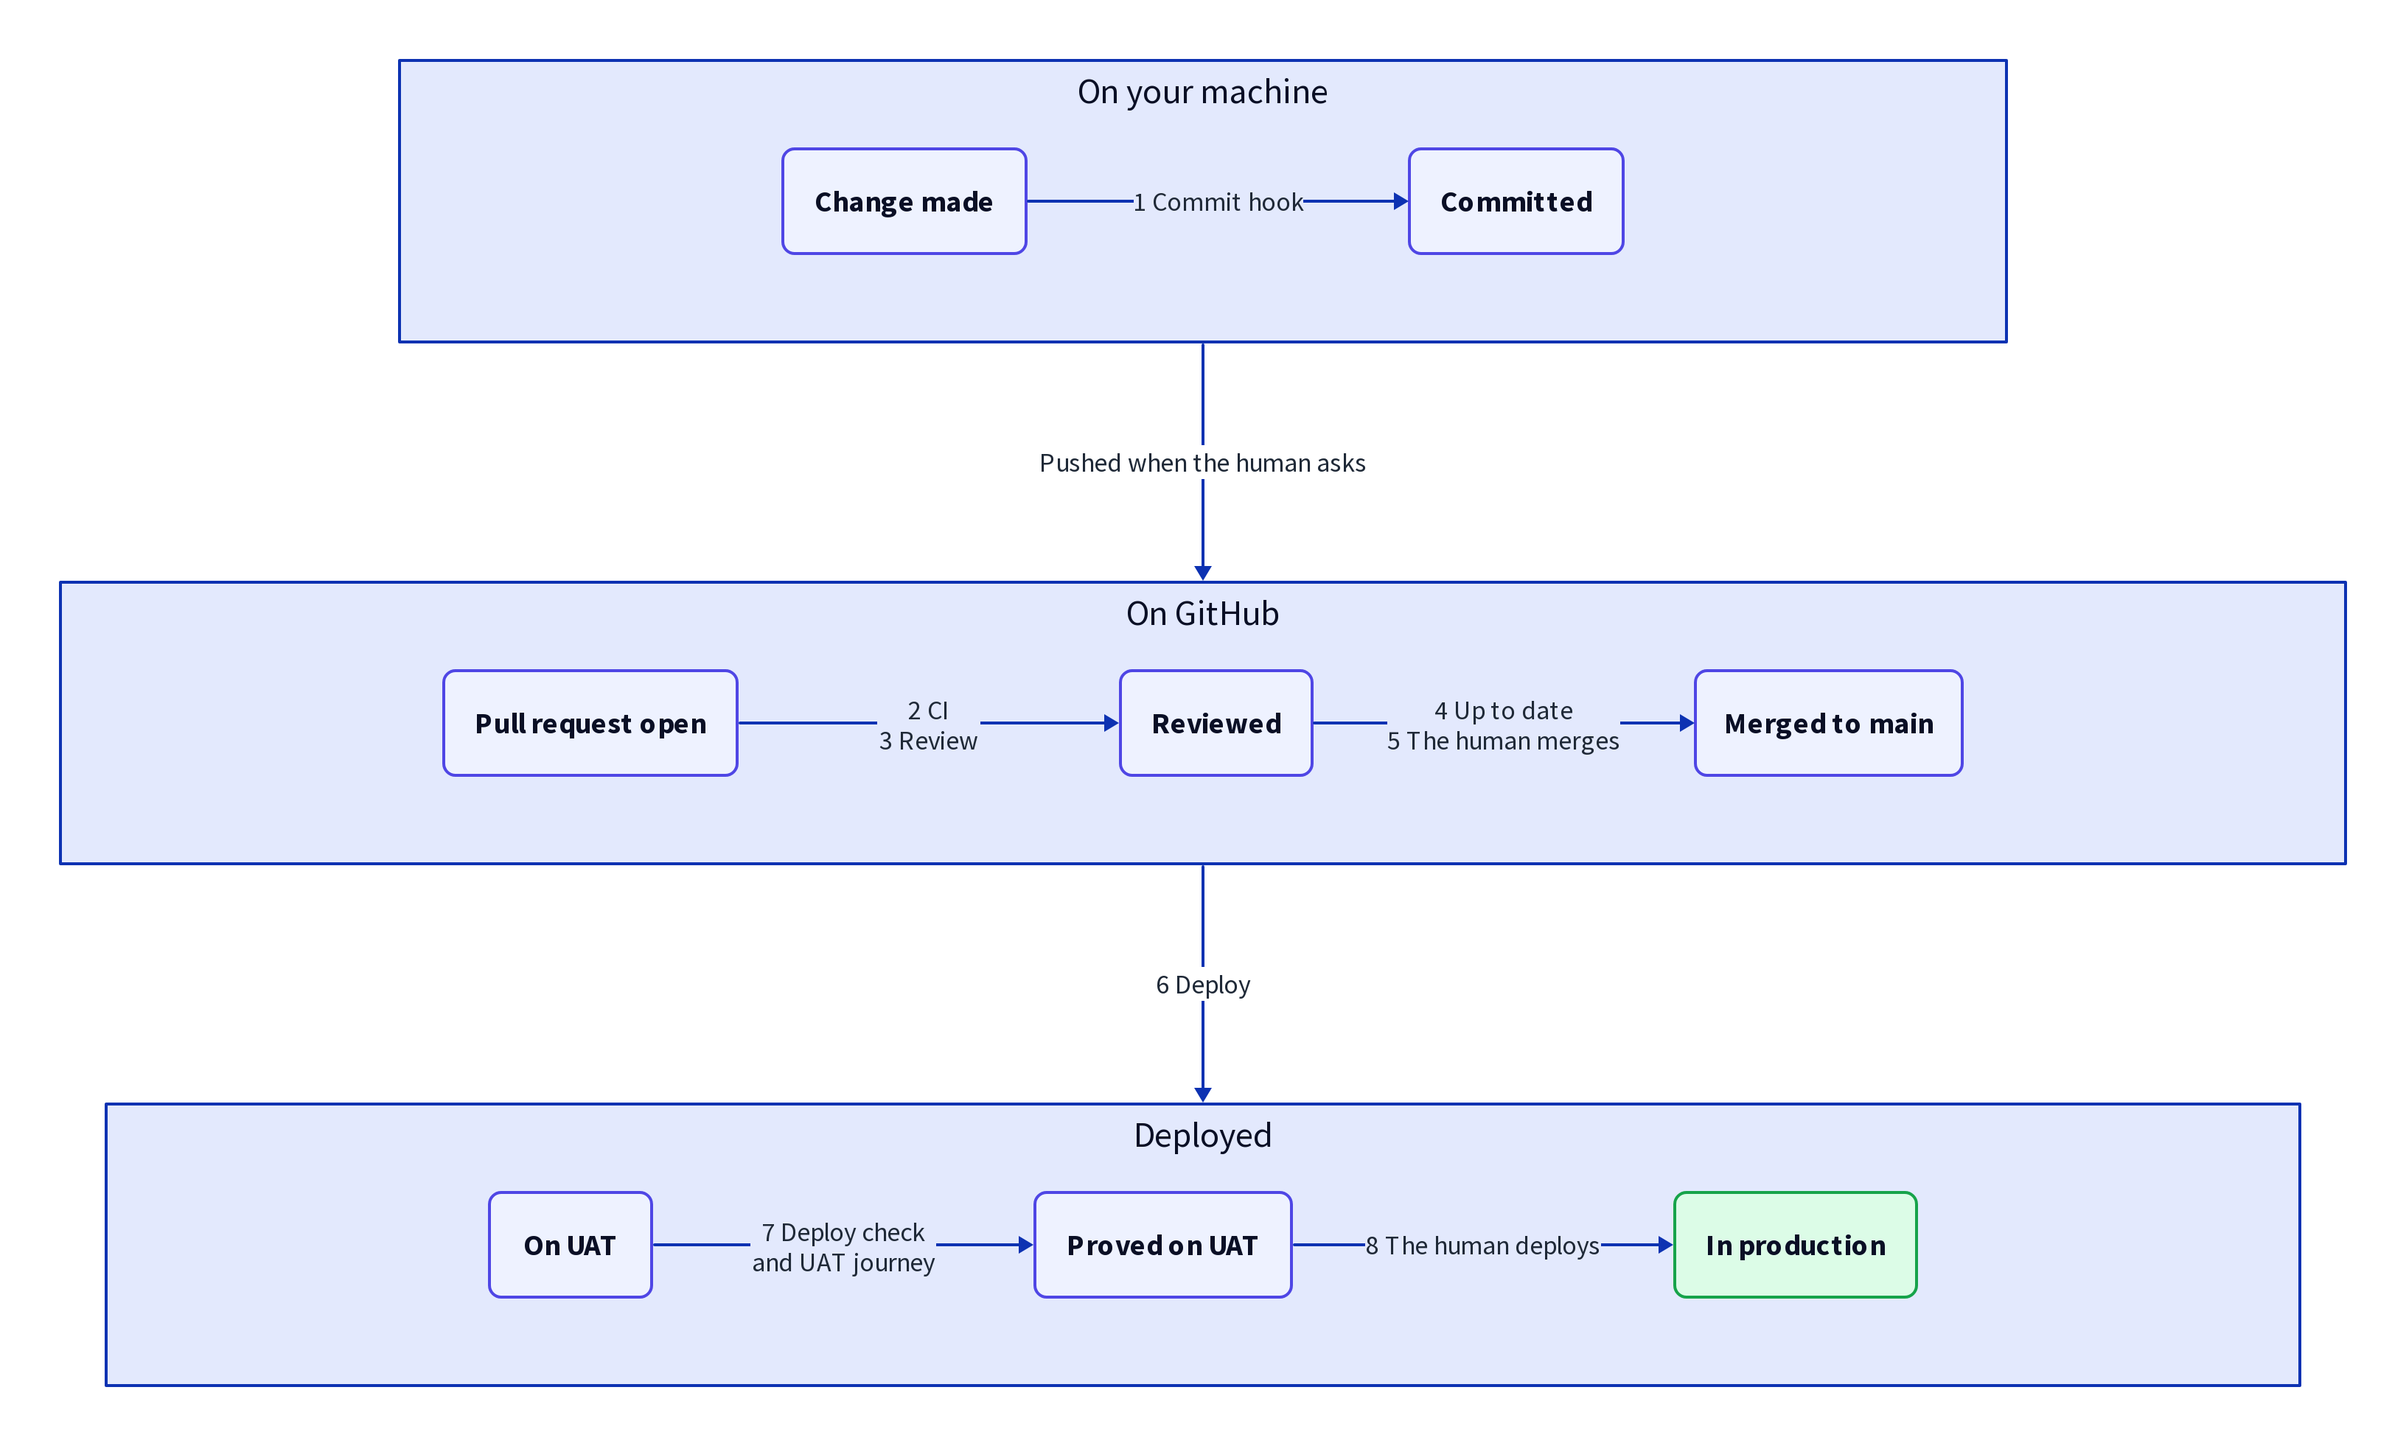
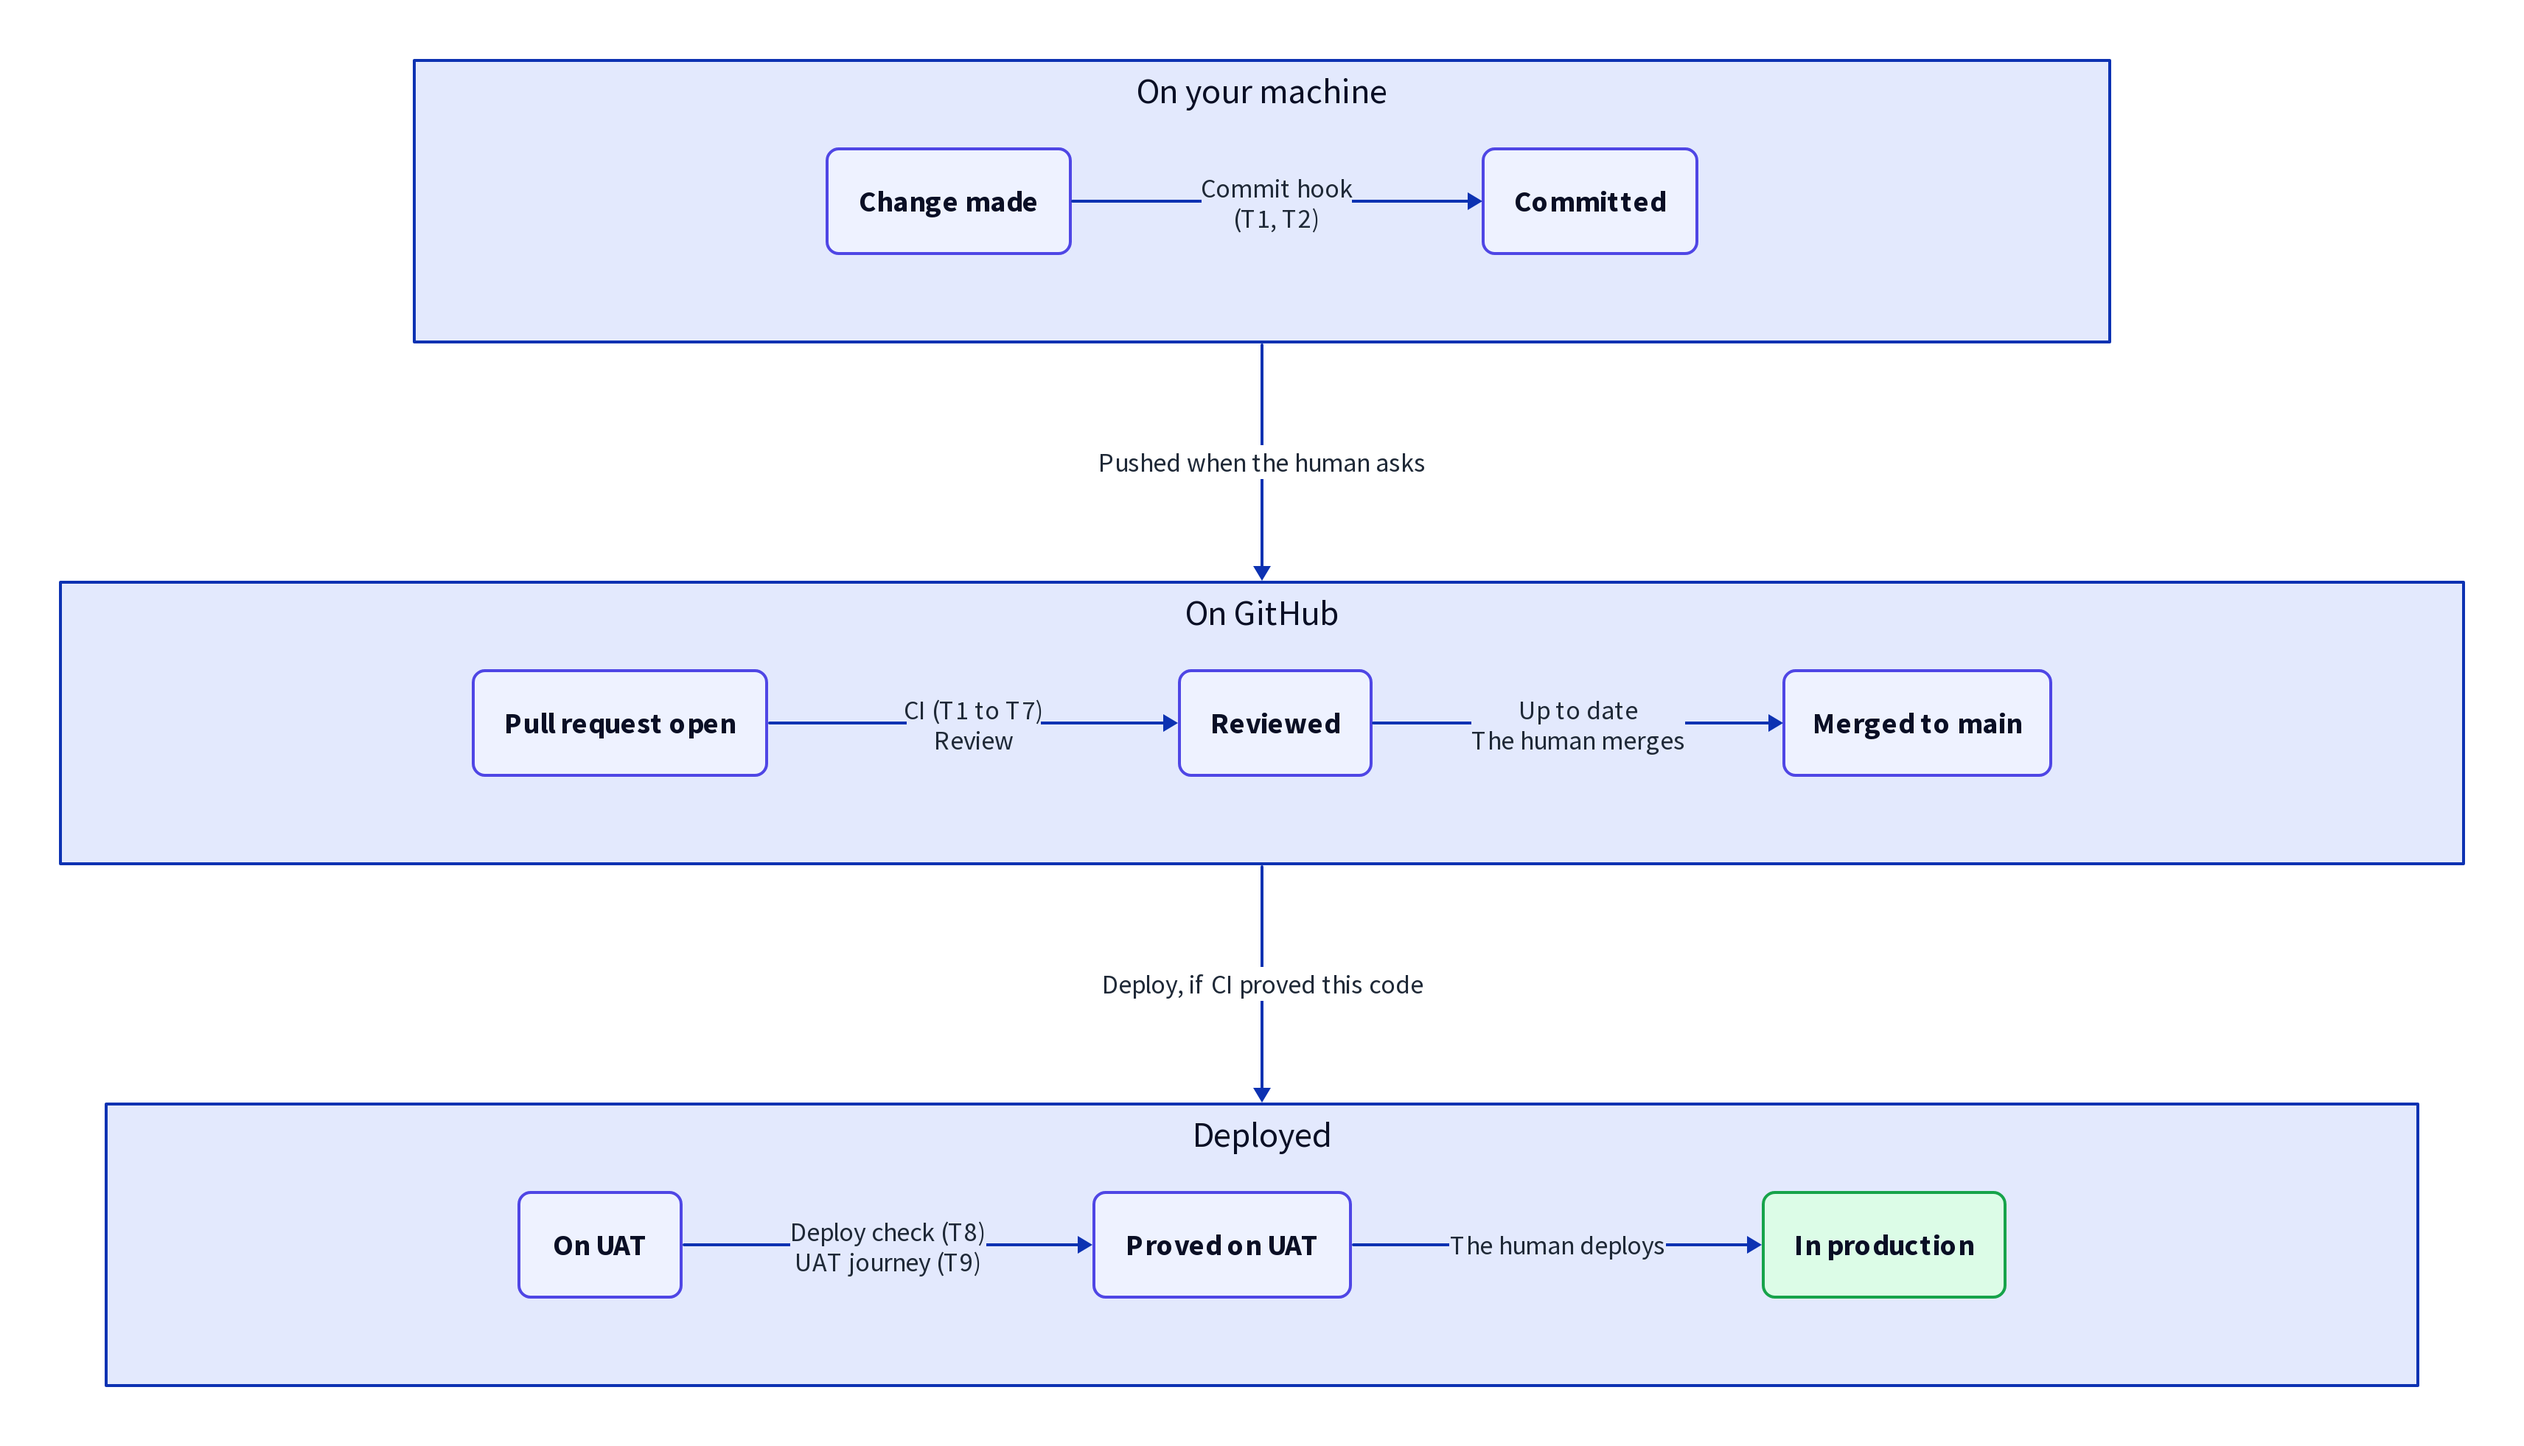
set-up-sdlc: drop the gates list from the example (it repeated the git section); diagram labels name the tests

diff --git a/set-up-sdlc/AGENTS-example.md b/set-up-sdlc/AGENTS-example.md
@@ -121,7 +121,7 @@ A worktree is a second working folder on its own branch, sharing the repo's hist
 | Rule | |
 | --- | --- |
 | Branches | Cut from `origin/main`. Named `<user>/<ticket-id>-<slug>`, main ticket first. |
-| Up to date | Bring the branch up to date with `main` before a merge. GitHub allows a merge without it, and the deploy then refuses the result. |
+| Up to date | Bring the branch up to date with `main` before a merge, so `main` only ever holds changes that were tested together. GitHub allows a merge without it, and the deploy then refuses the result. Each merge puts every other open pull request out of date, so finish one before bringing the next up to date. |
 | Pushing | Only when the human asks. |
 | Merging | The human merges. Open the pull request and stop. |
 | Local tests | None are needed before a push. CI runs the full suite. |
@@ -150,22 +150,7 @@ Never change infrastructure by hand in any environment.
 
 ![The route a change takes, from a change on your machine to production](example_pipeline.png)
 
-Each number is a gate, explained in the next table. The picture is drawn from `example_pipeline.d2`.
-
-### The gates
-
-| # | Gate | What must be true | What checks it | If it stops you |
-| --- | --- | --- | --- | --- |
-| 1 | Commit hook | Format, lint and type checks pass on what you changed (T1, T2). | The commit hook | Fix the cause. Never skip the hook. |
-| 2 | CI | Every suite from T1 to T7 passes. | CI, each time the pull request is pushed | Fix it and push again. |
-| 3 | Review | Every finding is fixed, dropped or settled by the human. | You | Send a fresh builder to fix it. The same reviewer checks the fix. |
-| 4 | Up to date | The branch holds the latest `main`, and CI has passed on that. | Nothing at merge. Gate 6 catches it later. | Update the branch and wait for CI. |
-| 5 | Merge | The human says so. | The human | Stop and wait. |
-| 6 | Deploy | CI proved this exact code. | The deploy workflow | Find out why the proof is missing. Never work round it. |
-| 7 | Proved on UAT | The deploy check passes (T8), and the change is shown working in the deployed app (T9). | The deploy workflow, then you | The ticket stays In Review. |
-| 8 | Production | The change is proved on UAT. | The human | Stop and wait. |
-
-**Why gate 4 is worth the wait.** `main` should only ever hold a combination of changes that has been tested together. Each merge puts every other open pull request out of date, so they go in one at a time. Finish one before bringing the next up to date. Do not line several up and push them through together.
+The rules along this route are in Git, above. The tests it names (T1 to T9) are in the next table. The picture is drawn from `example_pipeline.d2`.
 
 ### The tests
 
@@ -195,7 +180,7 @@ Each number is a gate, explained in the next table. The picture is drawn from `e
 | T8 Deploy check | | | ● | |
 | T9 UAT journey | | | | ● feature work |
 
-Nothing runs on a merge or on a schedule. A deploy to production re-runs no tests: it checks the proof from gate 6.
+Nothing runs on a merge or on a schedule. A deploy to production re-runs no tests: it checks that CI proved the code.
 
 ### Test data and logins
 

diff --git a/set-up-sdlc/recipe.md b/set-up-sdlc/recipe.md
@@ -182,6 +182,8 @@ A context file is a markdown file that agents and people read to understand a pr
 - The chapter covers how data flows between development and production, and what runs on a pull request, on merge and on a schedule.
 - Each of the three subjects is covered briefly. The patch below is material to draw on, not text to copy.
 - This content goes in the recipe, not the handbook.
+- The form of the CI/CD section in the agents file (12 Nov, from the worked example): a table of the environments, including what an agent may do in each; a picture of the route a change takes, drawn in D2 and stored as an image beside its source; a table of every test suite and what it proves; and a grid of which suite runs when. Kasey liked the tests table and the grid, which must flex to fit different setups. A list of gates was tried and dropped: it repeated the git section and mixed machine checks, human decisions and advice.
+- Rules are not repeated between the git section and the CI/CD section. The git section's two lists (what a machine checks, what rests on the agent) hold the rules for the whole route.
 - The git checks in chapter 8 guard the context files. They are not general CI standards.
 
 **Why**
